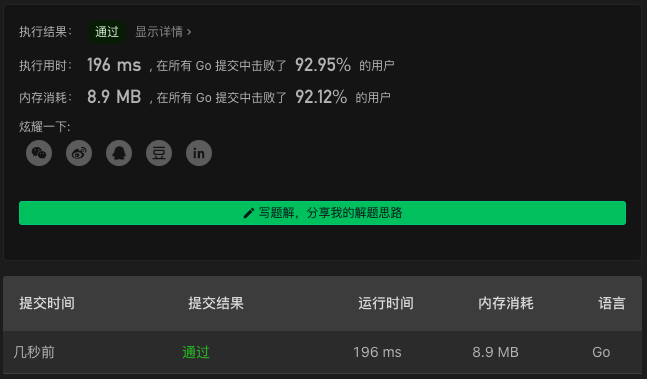
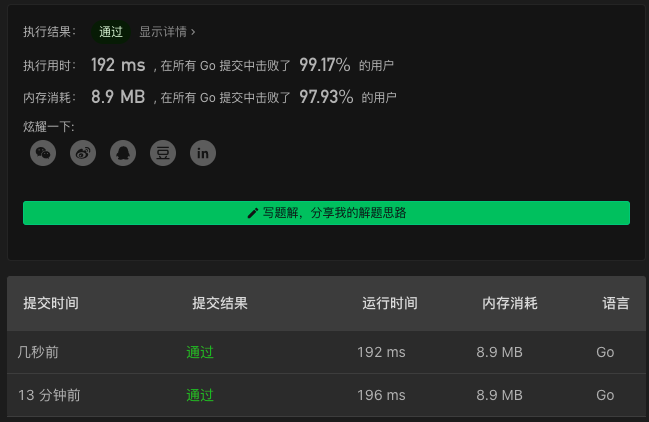
1721. Swapping Nodes in a Linked List

diff --git a/1721. Swapping Nodes in a Linked List.md b/1721. Swapping Nodes in a Linked List.md
@@ -4,10 +4,9 @@
 
 ## 双指针解法
 
-1. 找出第一个需要交换位置的节点的前节点
-2. 通过双指针找出第二个需要交换位置的节点的前节点
-3. 处理特殊情况
-4. 交换两个节点
+1. 找出第一个需要交换位置的节点的
+2. 通过双指针找出第二个需要交换位置的节点
+3. 交换两个节点的值  // 注意题意，不是交换两个节点的位置
 
 ```go
 /**
@@ -18,29 +17,15 @@
  * }
  */
 func swapNodes(head *ListNode, k int) *ListNode {
-    root := &ListNode{Next: head}
-    p0 := root
+    p0 := head
     for i := 1; i < k; i++ { p0 = p0.Next }
     front := p0
 
-    p1 := root
-    for p0 = p0.Next; p0.Next != nil; p0, p1 = p0.Next, p1.Next {}
-    tail := p1
+    p1 := head
+    for p0 = p0.Next; p0 != nil; p0, p1 = p0.Next, p1.Next {}
 
-    if front == tail { return head }
-    if front.Next == tail || tail.Next == front {
-        if tail.Next == front {
-            front, tail = tail, front
-        }
-        node0, node1, next := front.Next, tail.Next, tail.Next.Next
-        front.Next, node1.Next, node0.Next = node1, node0, next
-    } else {
-        node0, node1 := front.Next, tail.Next
-        next0, next1 := node0.Next, node1.Next
-        front.Next, node1.Next = node1, next0
-        tail.Next, node0.Next = node0, next1
-    }
-    return root.Next
+    front.Val, p1.Val = p1.Val, front.Val
+    return head
 }
 ```
 
